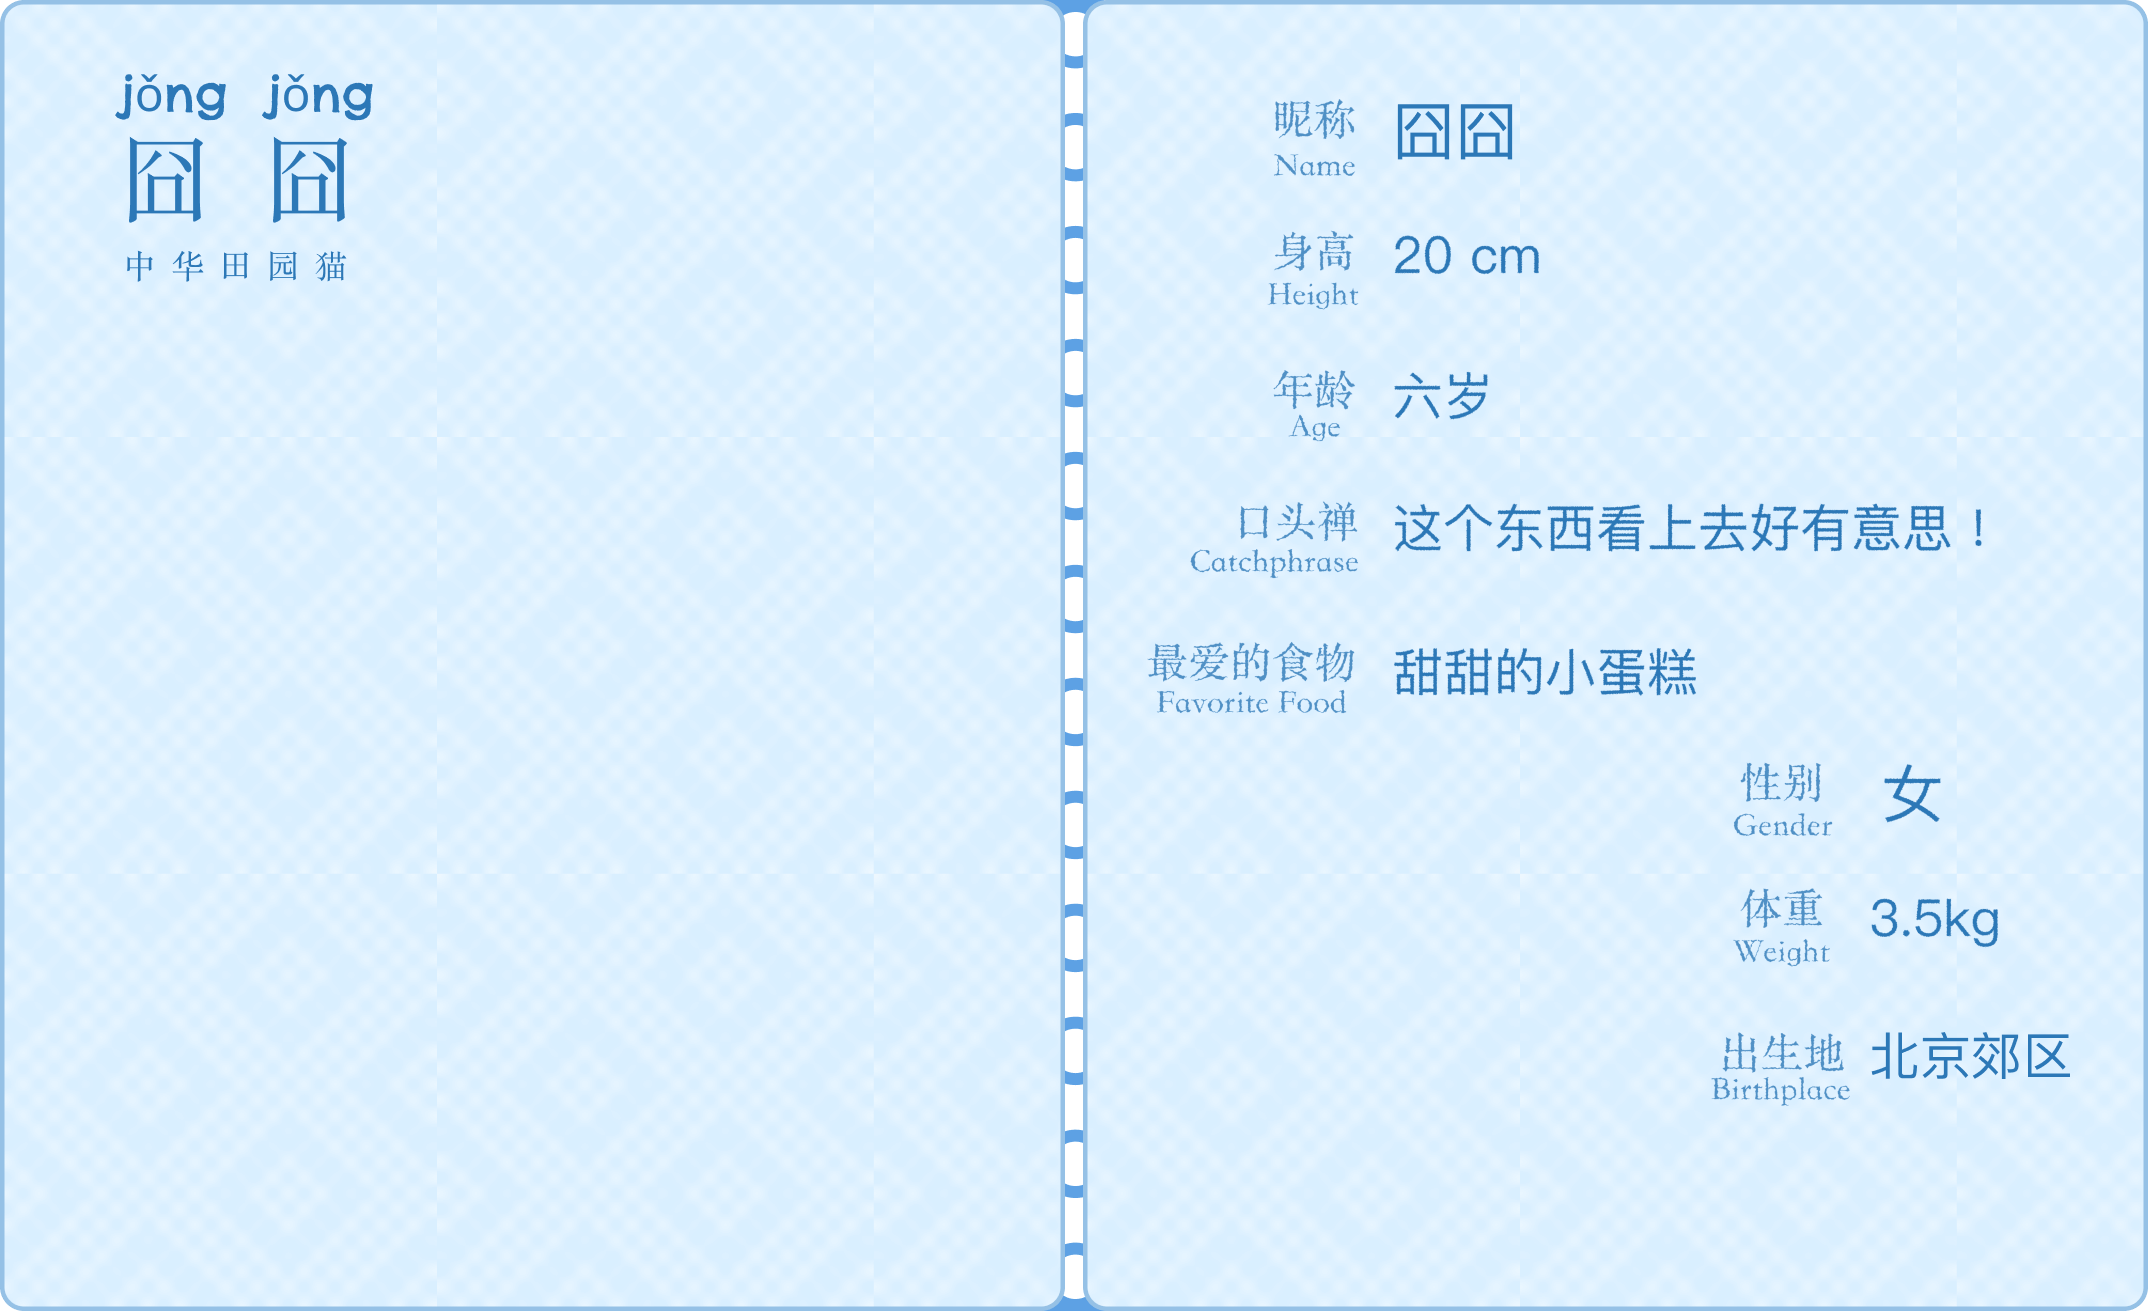
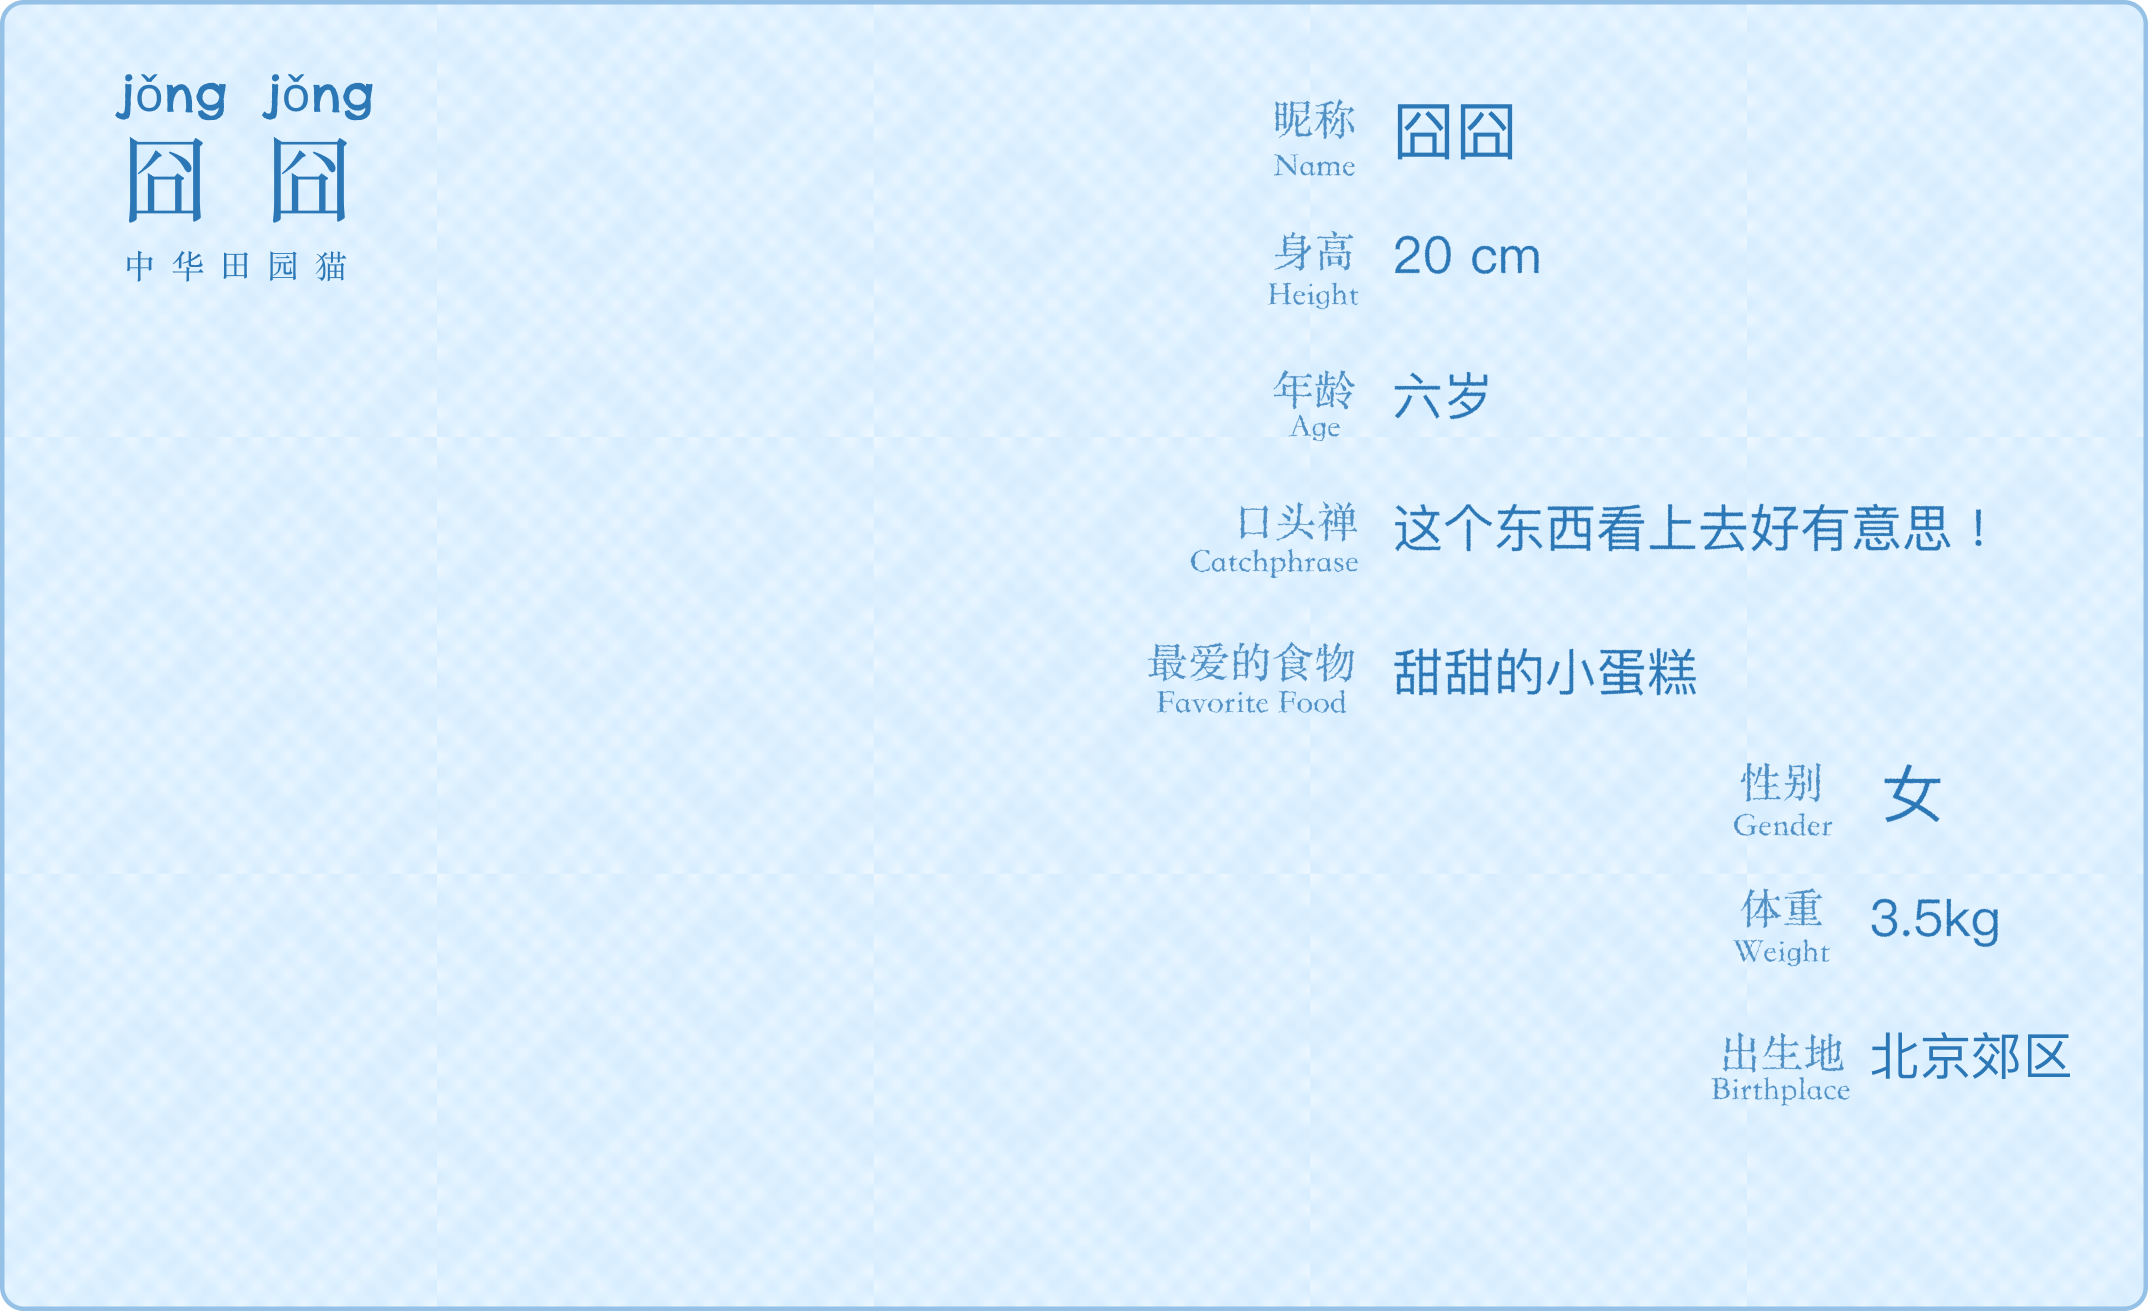
change position z instead rotation y for order

Changed region(s): [[0.4679, 0.0, 0.5303, 1.0]]

diff --git a/src/components/BookScene.ts b/src/components/BookScene.ts
@@ -42,6 +42,7 @@ export class BookScene {
   private maxPixelRatio: number = /iPhone|iPad|iPod/i.test(navigator.userAgent) ? 3 : 2;
   private normalCameraZ: number = 6;
   private closedCameraZ: number = 4;
+  private initialCameraOffset = new THREE.Vector3(-1, -6, -2);
 
   constructor (container: HTMLDivElement) {
     this.container = container;
@@ -51,10 +52,9 @@ export class BookScene {
     this.scene.add(this.book);
 
     this.camera = new THREE.PerspectiveCamera(45, container.clientWidth / container.clientHeight, 0.1, 1000);
-    // this.camera.position.set(0, 0, 6);
     this.camera.lookAt(0, 0, 0);
 
-    this.renderer = new THREE.WebGLRenderer({ antialias: true, alpha: true, logarithmicDepthBuffer: false });
+    this.renderer = new THREE.WebGLRenderer({ antialias: !this.isMobile, alpha: true, logarithmicDepthBuffer: false });
     this.renderer.setPixelRatio(Math.min(window.devicePixelRatio, this.maxPixelRatio));
 
 
@@ -90,13 +90,13 @@ export class BookScene {
   private setUpLight() {
     this.scene.add(this.ambientLight);
 
-    const lLight = new THREE.DirectionalLight(0xffffff, 0.5);
-    lLight.position.set(-5, 0, 8);
-    this.scene.add(lLight);
-    this.directionalLights.push(lLight);
+    // const lLight = new THREE.DirectionalLight(0xffffff, 0.5);
+    // lLight.position.set(-5, 0, 8);
+    // this.scene.add(lLight);
+    // this.directionalLights.push(lLight);
 
     const rLight = new THREE.DirectionalLight(0xffffff, 0.5);
-    rLight.position.set(5, 0, 8);
+    rLight.position.set(0, 0, 8);
     this.scene.add(rLight);
     this.directionalLights.push(rLight);
   }
@@ -131,6 +131,8 @@ export class BookScene {
 
     for (let i = 0;i < config.numPages;i++) {
       const page = this._createPage(i, textureLoader);
+      page.position.z = (config.numPages - i) * config.pageDepth;
+
       this.book.add(page);
       this.pages.push(page);
     }
@@ -151,6 +153,7 @@ export class BookScene {
     const pageRotations: number[] = [];
     const pProgress = progress / perSegment;
 
+
     if (progress < perSegment) {
       this.camera.position.x = THREE.MathUtils.lerp(config.pageWidth / 2, 0, pProgress);
 
@@ -158,21 +161,45 @@ export class BookScene {
         this.camera.position.z = THREE.MathUtils.lerp(this.closedCameraZ, this.normalCameraZ, pProgress);
       }
     }
+    // if (progress < perSegment) {
+    //   const endPosition = {
+    //     x: 0,
+    //     y: this.isMobile ? this.camera.position.y : 0,
+    //     z: this.normalCameraZ
+    //   };
+    //   const startPosition = {
+    //     x: endPosition.x + this.initialCameraOffset.x,
+    //     y: endPosition.y + this.initialCameraOffset.y,
+    //     z: endPosition.z + this.initialCameraOffset.z
+    //   };
+
+    //    this.camera.position.x = THREE.MathUtils.lerp(startPosition.x, startPosition.x, pProgress);
+    // this.camera.position.y = THREE.MathUtils.lerp(startPosition.y, startPosition.y, pProgress);
+    // this.camera.position.z = THREE.MathUtils.lerp(startPosition.z, startPosition.z, pProgress);
+    // }
+    // this.camera.lookAt(0, 0, 0);
 
     this.currentPage = Math.round(pProgress);
 
     for (let i = 0;i < config.numPages;i++) {
       const page = this.pages[i];
+
       const segmentStartProgress = i * perSegment;
       const flipProgress = Math.max(0, Math.min(1, pProgress - (segmentStartProgress) / perSegment));
       const flipRotation = -flipProgress * Math.PI;
-
-      page.rotation.y = i * config.rotationStep + flipRotation;
       pageRotations.push(flipRotation);
+
+      page.rotation.y = flipRotation;
+      page.position.z = i < pProgress ? (i - pProgress + 1) * config.pageDepth * flipProgress : (pProgress - i) * config.pageDepth * (1 - flipProgress);
 
       const pageStartProgress = (i - 2) * perSegment;
       const pageEndProgress = (i + 2) * perSegment;
-      page.visible = progress > pageStartProgress && progress < pageEndProgress;
+
+      if (progress < pageStartProgress || progress > pageEndProgress) {
+        page.visible = false;
+        continue;
+      }
+      page.visible = true;
 
       const decs = this.decorationPairs[i];
       if (!decs || decs.length === 0) continue;
@@ -200,6 +227,7 @@ export class BookScene {
     }
 
     this.updateIcons();
+
 
   }
   private updateBgColor(progress: number) {
@@ -270,6 +298,8 @@ export class BookScene {
 
   private _createPage(i: number, textureLoader: THREE.TextureLoader): THREE.Group {
     const pivot = new THREE.Group();
+
+    // TODO: replace bg texture for better rounded corner
     const geometry = this._createRoundedBoxGeometry(config.pageWidth, config.pageHeight, config.pageDepth, 0.12, 64);
 
     const frontTexture = textureLoader.load(assets.pages[i]);
@@ -292,8 +322,8 @@ export class BookScene {
     bNormalTexture.repeat.set(0.5, 1);
 
     const fMaterialConfig = {
-      roughness: 0.35,
-      metalness: 0.05,
+      roughness: 0.4,
+      metalness: 0,
       normalMap: fNormalTexture,
       normalScale: new THREE.Vector2(1, 3)
     };
@@ -349,7 +379,7 @@ export class BookScene {
         transparent: true,
         clippingPlanes: [
           new THREE.Plane(new THREE.Vector3(-1, 0, 0), config.pageWidth - 0.015),
-          new THREE.Plane(new THREE.Vector3(1, 0, 0), -0.025),
+          new THREE.Plane(new THREE.Vector3(1, 0, 0), 0.01),
           new THREE.Plane(new THREE.Vector3(0, -1, 0), config.pageHeight / 2),
           new THREE.Plane(new THREE.Vector3(0, 1, 0), config.pageHeight / 2)
         ].map(p => p.clone())
@@ -361,7 +391,7 @@ export class BookScene {
         alphaTest: 0.01,
         transparent: true,
         clippingPlanes: [
-          new THREE.Plane(new THREE.Vector3(-1, 0, 0), -0.025),
+          new THREE.Plane(new THREE.Vector3(-1, 0, 0), 0.01),
           new THREE.Plane(new THREE.Vector3(1, 0, 0), config.pageWidth - 0.015),
           new THREE.Plane(new THREE.Vector3(0, -1, 0), config.pageHeight / 2),
           new THREE.Plane(new THREE.Vector3(0, 1, 0), config.pageHeight / 2)

diff --git a/src/components/config.ts b/src/components/config.ts
@@ -21,7 +21,6 @@ export const config = {
   pageWidth: 2.4,
   pageHeight: 3,
   pageDepth: 0.02,
-  rotationStep: 0.01,
   dragSensitivity: 0.15,
   snapDuration: 0.8,
   mediaPages: {
